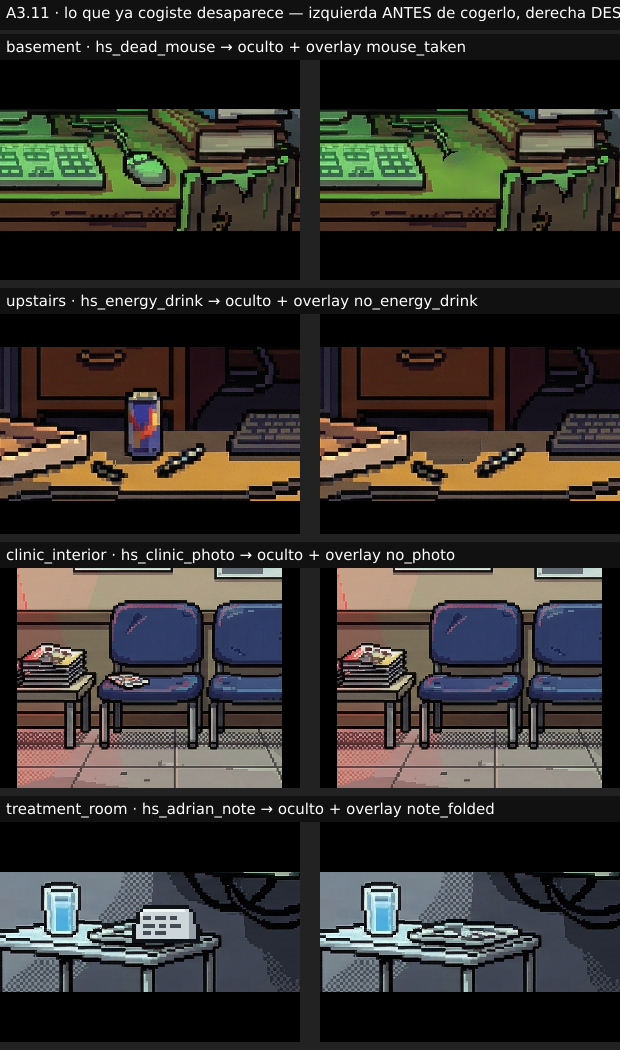
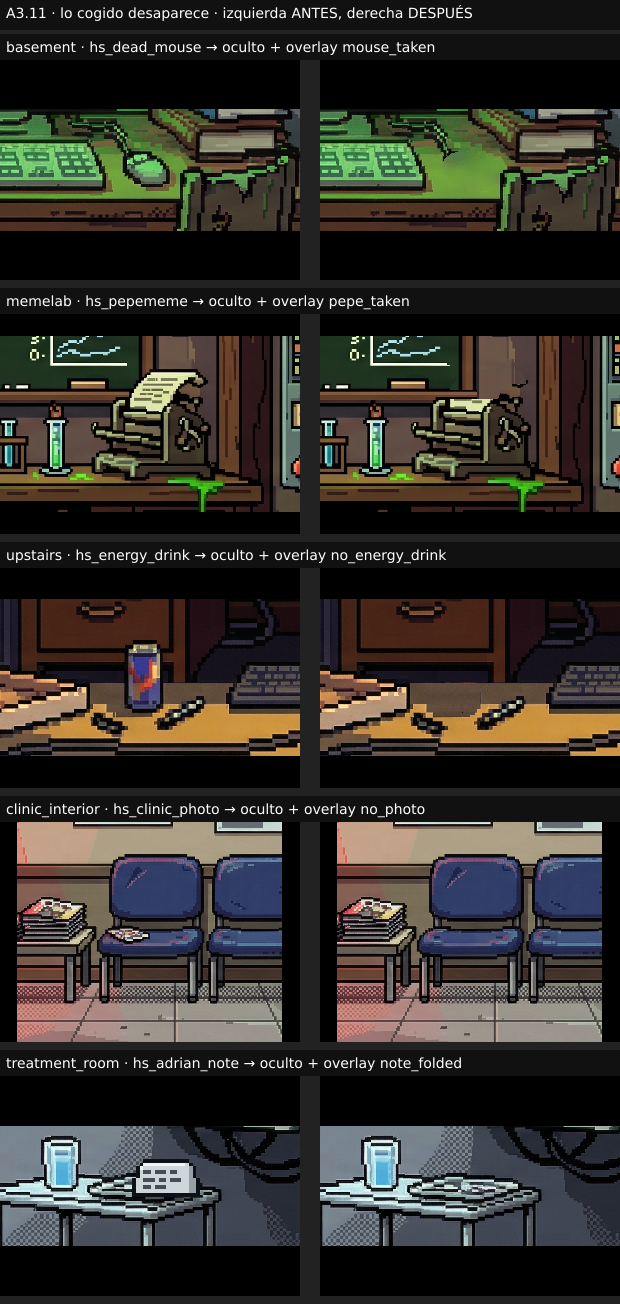
feat(scumm-A3.11): la hoja del Rare Pepe desaparece de la impresora al cogerla (parche por zonas desde el fondo)

diff --git a/docs/progreso/A3.11.md b/docs/progreso/A3.11.md
@@ -26,7 +26,8 @@ estaba en el inventario pero seguía dibujado en la mesa y su hotspot seguía ac
   se gaste y salga del inventario. Excepción: la lata de upstairs (`hideWhen: ["has_energy_drink",
   "item:energy_drink"]`): oculta mientras la llevas; si la gastas en el rig, vuelve el hotspot porque hay otra «detrás
   del monitor» (ruta crítica del walkthrough, A3.4d).
-- **Parche desde el fondo** (`scripts/make-picked-overlays.mjs`, sharp): máscara de formas sobre el objeto, relleno
+- **Parche desde el fondo** (`scripts/make-picked-overlays.mjs`, sharp): máscara de formas sobre el objeto (o los
+  píxeles claros de un papel y su contorno), reglas opcionales de copia de filas/columnas del fondo, relleno
   del borde hacia dentro con los colores vecinos del propio `background.webp` (sin sembrar con el contorno oscuro),
   suavizado, cuantización a la paleta del anillo de alrededor, alfa 255 solo en la máscara, fuera lo que queda
   casi igual al fondo (Δ ≤ 12), recorte a su caja, WebP sin pérdida y su entrada en `conditionalOverlays` con la
@@ -56,7 +57,7 @@ Oculto = el hotspot deja de existir con la flag; overlay «parche encima» = se 
 | clinic_interior | `hs_clinic_photo` | `clinic_photo` | oculto | `found_clinic_photo` | `no_photo` (parche encima) |
 | clinic_interior | `hs_dr_coat` | `dr_satoshi_badge` | excepción | — | La bata se queda (la lleva el Dr. Satoshi): la placa iba en el bolsillo interior |
 | lobby | `hs_coat` | `keycard`, `leaky_pen`, `mystery_envelope` | excepción | — | El abrigo de Penny se queda (se puede devolver el sobre): la tarjeta, el boli y el sobre iban en los bolsillos, no dibujados |
-| memelab | `hs_pepememe` | `pepememe` | **pendiente** | — | ver qa/lint-scenes-allow.json |
+| memelab | `hs_pepememe` | `pepememe` | oculto | `found_pepememe` | `pepe_taken` (parche encima) |
 | mountain | `hs_spring` | `water_bottle` | excepción | — | El manantial se queda: llenas una botella de agua |
 | outside | `hs_porch_light` | `note_half_a` | excepción | — | La lámpara se queda: la media nota estaba dentro; el overlay lamp_empty (flag porch_light_off) ya la pinta apagada y vacía |
 | outside | `hs_mailbox` | `vet_bill`, `mystery_envelope` | excepción | — | El buzón se queda: la factura y el sobre estaban dentro; el overlay mailbox_empty (flag found_envelope) ya lo pinta vacío |
@@ -73,31 +74,36 @@ Oculto = el hotspot deja de existir con la flag; overlay «parche encima» = se 
 | upstairs | `hs_paper_tray` | `receipt` | excepción | — | La bandeja se queda: el recibo iba entre los papeles (no dibujado aparte); el PICK de después lo dice («The tray is just sad printouts now») |
 | upstairs | `hs_alphapack` | `ape_costume` | excepción | — | La caja ALPHA PACKS se queda y su LOOK lo dice («Empty now — I already took the ape costume»); el disfraz iba dentro |
 
-Recuento por escena (oculto con overlay / solo hotspot / excepción / pendiente): basement 1/0/3/0 · clinic_exterior
-0/0/2/0 · clinic_interior 1/0/2/0 · lobby 0/0/1/0 · memelab 0/0/0/1 · mountain 0/0/1/0 · outside 0/0/3/0 ·
-recovery_pool 0/0/1/0 · rooftop 0/0/1/0 · server_room 0/0/3/0 · treatment_room 1/0/1/0 · upstairs 1/0/3/0 ·
-epilogue_outside sin objetos. Total: 4 ocultos con overlay (1 parche nuevo: el ratón; 3 con el overlay que ya
-existía), 21 excepciones con motivo, 1 pendiente.
+Recuento por escena (oculto con overlay / solo hotspot / excepción): basement 1/0/3 · clinic_exterior 0/0/2 ·
+clinic_interior 1/0/2 · lobby 0/0/1 · memelab 1/0/0 · mountain 0/0/1 · outside 0/0/3 · recovery_pool 0/0/1 ·
+rooftop 0/0/1 · server_room 0/0/3 · treatment_room 1/0/1 · upstairs 1/0/3 · epilogue_outside sin objetos. Total:
+5 ocultos con overlay (2 parches nuevos: el ratón del sótano y la hoja del Rare Pepe de memelab; 3 con el overlay que
+ya existía), 21 excepciones con motivo, ninguno pendiente.
 
-**Pendiente: memelab `hs_pepememe`.** La hoja del Rare Pepe sale de la impresora, delante del marco del encerado y su
-repisa y de la pared. Probé el parche automático con relleno por difusión, por filas y por reglas de columnas: siempre
-quedaba un bloque de otro tono o el resplandor del papel que se queda en la ranura. Hay que repintarlo a mano (o con
-reglas por zonas más finas) antes de ocultar el hotspot. Está en `qa/lint-scenes-allow.json` como «pendiente A3.11».
+**La hoja del Rare Pepe (memelab).** Sale de la impresora, delante del encerado, su marco y su repisa y de la pared.
+El relleno del borde hacia dentro dejaba un bloque de otro tono y el resplandor del papel que se queda en la ranura,
+así que el parche usa reglas por zonas (`fill` en `PATCHES`): el encerado y el marco siguen hacia abajo copiando la
+fila de encima de la hoja, la repisa sigue hacia la derecha copiando su columna y la pared sigue hacia abajo. El trozo
+de papel que entra en la ranura se queda (la impresora sigue con papel).
 
 ## Capturas
 
-Hoja antes/después de los cuatro objetos que desaparecen (fondo + overlay, recorte ampliado):
-`docs/progreso/A3.11/hoja-antes-despues.png` · DROP (30 días): https://drop.zerothetoken.com/public/share/B7kYdYqE8kShDQju2QEs3g
+Hoja antes/después de los cinco objetos que desaparecen (fondo + overlay, recorte ampliado):
+`docs/progreso/A3.11/hoja-antes-despues.png` · DROP (30 días): https://drop.zerothetoken.com/public/share/QzB_KRYX5SvOat7Nw5LnOQ
 
 | Objeto | Antes | Después |
 |---|---|---|
 | basement · ratón | ![](A3.11/basement-hs_dead_mouse-antes.png) | ![](A3.11/basement-hs_dead_mouse-despues.png) |
+| memelab · Rare Pepe | ![](A3.11/memelab-hs_pepememe-antes.png) | ![](A3.11/memelab-hs_pepememe-despues.png) |
 | upstairs · lata | ![](A3.11/upstairs-hs_energy_drink-antes.png) | ![](A3.11/upstairs-hs_energy_drink-despues.png) |
 | clinic_interior · foto | ![](A3.11/clinic_interior-hs_clinic_photo-antes.png) | ![](A3.11/clinic_interior-hs_clinic_photo-despues.png) |
 | treatment_room · nota | ![](A3.11/treatment_room-hs_adrian_note-antes.png) | ![](A3.11/treatment_room-hs_adrian_note-despues.png) |
 
 Revisado a ojo, ampliado: el parche del ratón no deja contorno ni sombra marrón; queda el cable, que llega hasta donde
-estaba el ratón (el LOOK de después, inalcanzable ya, hablaba de él; su clip no se borra). Los tres overlays que ya
+estaba el ratón (el LOOK de después, inalcanzable ya, hablaba de él; su clip no se borra). En el del Pepe, el encerado,
+el marco, la repisa y la pared quedan continuos; al ampliar mucho se nota una costura de un tono en la pared justo
+encima de donde estaba la hoja y dos píxeles negros del rizo de papel sobre la tapa de la impresora, que a tamaño de
+juego (y con el filtro anaglifo de la escena) se leen como su contorno. Los tres overlays que ya
 existían no cambian. En las excepciones el antes y el después son el mismo dibujo a propósito (o lo cambian overlays
 que ya existían: buzón, lámpara, valla, baldosas).
 
